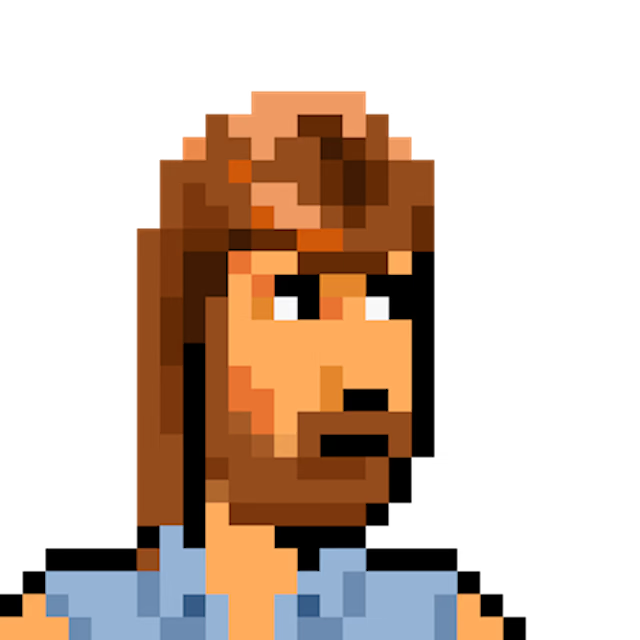
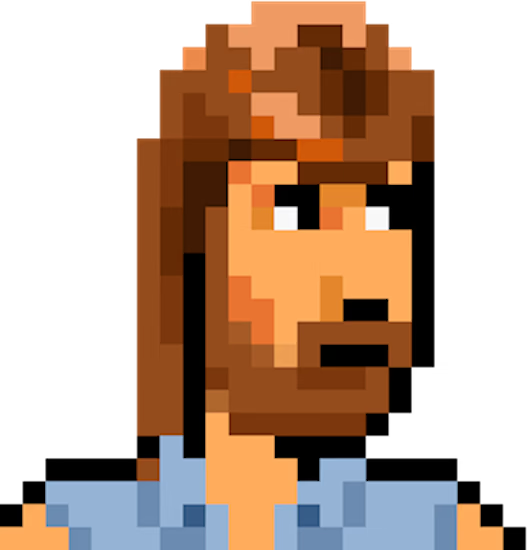
added font; resized pixelchuck;

diff --git a/src/css/MainBoard.css b/src/css/MainBoard.css
@@ -3,17 +3,17 @@
     align-items: center; /* Vertically center the items within the .factBox */
     padding: 10px; /* Optional padding for spacing within the box */
     flex-wrap: wrap; /* Allows wrapping for smaller screens */
-    gap: 10px; /* Space between flex items */
+    gap: 5px; /* Space between flex items */
     flex-direction: row; /* Ensures the image stays on the left */
 }
 
 .chuckHeadBox {
     display: flex;
-    align-items: center;
-    justify-content: center;
+    align-items: center; /* Vertically center the image */
+    justify-content: center; /* Horizontally center the image */
     width: 10vh; /* Use vh for height-related properties to ensure better scaling */
     height: 10vh;
-    border: 1px solid white;
+    border: 2px solid white;
     border-radius: 1vh;
     overflow: hidden; /* Ensures the image fits within the box */
     order: 1; /* Keeps the image to the left */
@@ -21,15 +21,14 @@
 }
 
 .chuckHeadBox img {
-    width: 100%; /* Adjusts to the size of the .chuckHeadBox */
-    height: auto; /* Maintains aspect ratio */
-    max-height: 10vh; /* Prevents image from exceeding the container size */
+    max-width: 100%; /* Adjusts to fit within the box */
+    max-height: 100%; /* Maintains aspect ratio within the constraints */
 }
 
 .jokeBox {
     margin: 0; /* Reset default paragraph margin */
     flex: 1; /* Allow the paragraph to take up the remaining space */
-    border: 1px solid white;
+    border: 2px solid white;
     border-radius: 1vh;
     padding: 10px; /* Adds some internal spacing */
     min-height: 10vh; /* Ensures it maintains the intended height */
@@ -38,21 +37,12 @@
     order: 2; /* Keeps the jokeBox always to the right */
 }
 
-/* Media query for smaller screens */
-@media (max-width: 768px) {
-    .factBox {
-        flex-direction: row; /* Keeps items in row direction even on smaller screens */
-        align-items: flex-start; /* Align items to the top */
-    }
-
-    .chuckHeadBox, .jokeBox {
-        width: auto; /* Adjust width automatically for responsiveness */
-        max-height: none; /* Remove height restriction for better scaling */
-    }
-
-    .jokeBox {
-        flex: 1; /* Takes up remaining space */
-    }
+.joke {
+        font-family: 'Pixelify Sans', sans-serif;
+        font-optical-sizing: auto;
+        font-weight: 400; /* 400 to 700 */
+        font-style: normal;
+        font-size: 2.5vh;   
 }
 
 .MainBoard #pixelchuck {

diff --git a/index.html b/index.html
@@ -1,13 +1,19 @@
 <!doctype html>
 <html lang="en">
-  <head>
-    <meta charset="UTF-8" />
-    <link rel="icon" type="image/png" href="/chuck-norris.png" />
-    <meta name="viewport" content="width=device-width, initial-scale=1.0" />
-    <title>Chuck Norris: Facts.</title>
-  </head>
-  <body class="body">
-    <div id="root"></div>
-    <script type="module" src="/src/main.jsx"></script>
-  </body>
+
+<head>
+  <link rel="preconnect" href="https://fonts.googleapis.com">
+  <link rel="preconnect" href="https://fonts.gstatic.com" crossorigin>
+  <link href="https://fonts.googleapis.com/css2?family=Pixelify+Sans:wght@400..700&display=swap" rel="stylesheet">
+  <meta charset="UTF-8" />
+  <link rel="icon" type="image/png" href="/chuck-norris.png" />
+  <meta name="viewport" content="width=device-width, initial-scale=1.0" />
+  <title>Chuck Norris: Facts.</title>
+</head>
+
+<body class="body">
+  <div id="root"></div>
+  <script type="module" src="/src/main.jsx"></script>
+</body>
+
 </html>

diff --git a/src/css/Header.css b/src/css/Header.css
@@ -2,12 +2,21 @@
     display: flex;
     justify-content: center; /* Centers the content horizontally */
     padding: 10px;
+
 }
 
 .Header-content {
     display: flex; /* Arrange children (h1 and img) in a row */
     align-items: center; /* Align items vertically in the center */
     gap: 10px; /* Space between h1 and img */
+}
+
+#title {
+    font-family: 'Pixelify Sans', sans-serif;
+    font-optical-sizing: auto;
+    font-weight: 500; /* 400 to 700 */
+    font-style: normal;
+    font-size: 7vh;
 }
 
 .Header #legochuck {

diff --git a/src/css/index.css b/src/css/index.css
@@ -44,6 +44,11 @@ button {
   background-color: #1a1a1a;
   cursor: pointer;
   transition: border-color 0.25s;
+  font-family: 'Pixelify Sans', sans-serif;
+  font-optical-sizing: auto;
+  font-weight: 400; /* 400 to 700 */
+  font-style: normal;
+  font-size: 2.5vh;   
 }
 button:hover {
   border-color: #646cff;

diff --git a/src/components/LoadingScreen.jsx b/src/components/LoadingScreen.jsx
@@ -1,7 +1,9 @@
+import '/src/css/LoadingScreen.css';
+
 function LoadingScreen(){
     return (    
 <>
-    Loading...<img src='/dancingChuck.gif'/>
+    <p>Loading...</p><img src='/dancingChuck.gif'/>
         </>
     )
 }

diff --git a/src/css/LoadingScreen.css b/src/css/LoadingScreen.css
@@ -1,0 +1,7 @@
+p {
+    font-family: 'Pixelify Sans', sans-serif;
+font-optical-sizing: auto;
+font-weight: 400; /* 400 to 700 */
+font-style: normal;
+font-size: 2.5vh;   
+}
